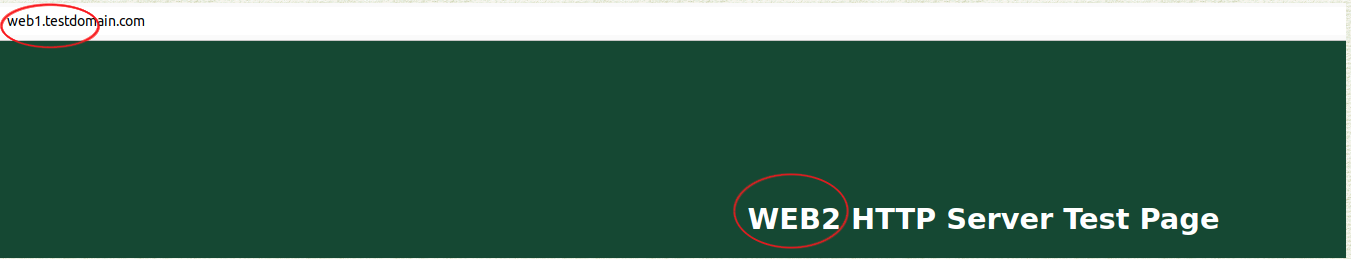
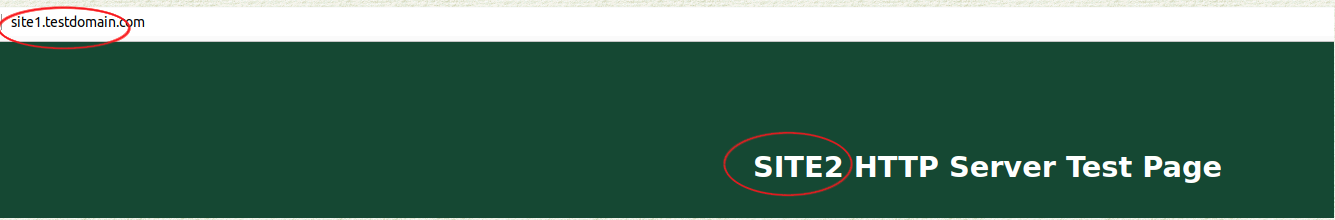
Minor HAProxy document adjustments
* Add an admonition to better highlight the possible differences in
parent Ethernet port names
* Fix spelling mistake
* Removed word that was not needed and confusing
* Fixed a confusion between the LXD container names and the web site
hostnames, by changing the names of the website hostnames so they **do
not** match the LXD container names
* changed screenshot to reflect changes.
* Wording change in hostname set up for the proxy machine
* Added meta for contributor Antoine Le Morvan - thanks for the
suggestions!

Changed region(s): [[0.0, 0.0, 1.0, 1.0]]

diff --git a/docs/guides/proxies/haproxy_apache_lxd.md b/docs/guides/proxies/haproxy_apache_lxd.md
@@ -1,7 +1,7 @@
 ---
 title: HAProxy-Apache-LXD
 author: Steven Spencer
-contributors: Ezequiel Bruni
+contributors: Ezequiel Bruni, Antoine Le Morvan
 ---
 # HAProxy Load Balancing Apache using LXD Containers
 
@@ -66,8 +66,10 @@ Next we need to modify the `macvlan` profile. But before we do, we need to know 
     link/ether a8:5e:45:52:f8:b6 brd ff:ff:ff:ff:ff:ff
     inet 192.168.1.141/24 brd 192.168.1.255 scope global dynamic noprefixroute eno1
 ```
+!!! Note
+    In this case, the interface we are looking for is "eno1" but this could be completely different on your system. Use **your** interface information!
 
-In this case, the interface we are looking for is "eno1" but this could be completely different on your system. Use **your** interface information! Now that we know the LAN interface, we can modify our `macvlan` profile. To do this, at the command line type:
+Now that we know the LAN interface, we can modify our `macvlan` profile. To do this, at the command line type:
 
 `lxc profile edit macvlan`
 
@@ -162,7 +164,7 @@ and then do a search for the `<h1>` tag, which should show this:
 
 Simply change that line to read:
 
-`<h1>WEB1 HTTP Server <strong>Test Page</strong></h1>`
+`<h1>SITE1 HTTP Server <strong>Test Page</strong></h1>`
 
 Now repeat the process for web2. Going to these machines by IP in a browser should now return the correct welcome page for each. There's more to do on the web servers, but let's leave them and go on to the proxy server next.
 
@@ -178,19 +180,19 @@ lxc config device add proxyha http proxy listen=tcp:0.0.0.0:80 connect=tcp:127.0
 lxc config device add proxyha https proxy listen=tcp:0.0.0.0:443 connect=tcp:127.0.0.1:443
 ```
 
-For our testing, we are probably only going to use port 80, or HTTP traffic, but this shows you how you would configure the container to listen on the default web ports for both HTTP and HTTPS. Using this command also ensures that restarting the **proxyha** container will maintain those listening ports.
+For our testing, we are only going to use port 80, or HTTP traffic, but this shows you how you would configure the container to listen on the default web ports for both HTTP and HTTPS. Using this command also ensures that restarting the **proxyha** container will maintain those listening ports.
 
 ## The HAProxy Configuration
 
-We've already installed HAProxy on the container, but we have done nothing with the configuration. Before we do anything, we need to do something to resolve our hosts. Normally we would be using fully-qualified domain names, but in this lab environment, we are just using IPs. To get some names associated with the machines, we are going to add some hosts file records to the **proxyha** container.
+We've already installed HAProxy on the container, but we have done nothing with the configuration. Before we do anything, we need to do something to resolve our hosts. Normally we would be using fully-qualified domain names, but in this lab environment, we are just using IPs. To get some names associated with the machines, we are going to add some host file records to the **proxyha** container.
 
 `lxc exec proxyha vi /etc/hosts`
 
 Add the following records to the bottom of the file:
 
 ```
-192.168.1.150   web1.testdomain.com     web1
-192.168.1.101   web2.testdomain.com     web2
+192.168.1.150   site1.testdomain.com     site1
+192.168.1.101   site2.testdomain.com     site2
 ```
 
 Which should allow the **proxyha** container to resolve those names.
@@ -245,8 +247,8 @@ errorfile 504 /etc/haproxy/errors/504.http
 # bind *:443 ssl crt /etc/letsencrypt/live/example.com/example.com.pem
 # reqadd X-Forwarded-Proto:\ https
 
-# acl host_web1 hdr(host) -i web1.testdomain.com
-# acl host_web2 hdr(host) -i web2.testdomain.com
+# acl host_web1 hdr(host) -i site1.testdomain.com
+# acl host_web2 hdr(host) -i site2.testdomain.com
 
 # use_backend subdomain1 if host_web1
 # use_backend subdomain2 if host_web2
@@ -254,8 +256,8 @@ errorfile 504 /etc/haproxy/errors/504.http
 frontend http_frontend
 bind *:80
 
-acl web_host1 hdr(host) -i web1.testdomain.com
-acl web_host2 hdr(host) -i web2.testdomain.com
+acl web_host1 hdr(host) -i site1.testdomain.com
+acl web_host2 hdr(host) -i site2.testdomain.com
 
 use_backend subdomain1 if web_host1
 use_backend subdomain2 if web_host2
@@ -265,21 +267,21 @@ backend subdomain1
   balance roundrobin
   http-request set-header X-Client-IP %[src]
 # redirect scheme https if !{ ssl_fc }
-     server web1 web1.testdomain.com:80 check
-     server web2 web2.testdomain.com:80 check
+     server site1 site1.testdomain.com:80 check
+     server site2 web2.testdomain.com:80 check
 
 backend subdomain2
 # balance leastconn
   balance roundrobin
   http-request set-header X-Client-IP %[src]
 # redirect scheme https if !{ ssl_fc }
-     server web2 web2.testdomain.com:80 check
-     server web1 web1.testdomain.com:80 check
+     server site2 site2.testdomain.com:80 check
+     server site1 site1.testdomain.com:80 check
 ```
 
 A little explanation of what's going on above. You should see this in your testing, when you get to the testing section of this guide (below):
 
-Both **web1** and **web2** are definded in the "acl" section. Then both **web1** and **web2** are included in each other's "roundrobin" for their respective back ends. What happens when you go to web1.testdomain.com in the test, the URL does not change, but the page inside will switch each time you access the page from the web1 to the web2 test pages. Same goes for web2.testdomain.com.
+Both **site1** and **site2** are defined in the "acl" section. Then both **site1** and **site2** are included in each other's "roundrobin" for their respective back ends. What happens when you go to site1.testdomain.com in the test, the URL does not change, but the page inside will switch each time you access the page from the **site1** to the **site2** test pages. Same goes for site2.testdomain.com.
 
 This is done to show you the switch is occurring, but in reality, your website content will look exactly the same regardless of which server you are hitting. Keep in mind that we are showing how you might want to distribute traffic between multiple hosts. You can also use "leastcon" in the balance line, and instead of switching based on the previous hit, it will load the site with the least number of connections.
 
@@ -403,7 +405,7 @@ If everything starts and runs without issue, we are ready to move on to testing.
 
 ## Testing The Proxy
 
-As with the hosts (`/etc/hosts`) setup that we used so that our **proxyha** container can resolve the web servers, and since in our lab environment we don't have a local DNS server running, we need to set the hostname values on our local machine for both the **web1** and **web2** containers. But, instead of using their IP addresses, we need to use the **proxyha** IP address for both.
+As with the hosts (`/etc/hosts`) setup that we used so that our **proxyha** container can resolve the web servers, and since in our lab environment we don't have a local DNS server running, we need to set the IP values on our local machine for both the site1 and site2 websites, to correspond to our haproxy container.
 
 To do this, we need to modify our `/etc/hosts` file on our local machine. Consider this method of domain resolution a "poor man's DNS."
 
@@ -412,19 +414,20 @@ To do this, we need to modify our `/etc/hosts` file on our local machine. Consid
 Then just add these two lines:
 
 ```
-192.168.1.149   web1.testdomain.com     web1
-192.168.1.149   web2.testdomain.com     web2
+192.168.1.149   site1.testdomain.com     site1
+192.168.1.149   site2.testdomain.com     site2
 ```
 
-If you ping either **web1** or **web2** on your local machine now, you should get a response from **proxyha**:
+If you ping either **site1** or **site2** on your local machine now, you should get a response from **proxyha**:
 
 ```
-PING web1.testdomain.com (192.168.1.149) 56(84) bytes of data.
-64 bytes from web1.testdomain.com (192.168.1.149): icmp_seq=1 ttl=64 time=0.427 ms
-64 bytes from web1.testdomain.com (192.168.1.149): icmp_seq=2 ttl=64 time=0.430 ms
+PING site1.testdomain.com (192.168.1.149) 56(84) bytes of data.
+64 bytes from site1.testdomain.com (192.168.1.149): icmp_seq=1 ttl=64 time=0.427 ms
+64 bytes from site1.testdomain.com (192.168.1.149): icmp_seq=2 ttl=64 time=0.430 ms
 ```
 
-Now open your web browser and type web1.testdomain.com (or web2.testdomain.com) as the URL in the address bar. You should get a response back from one of the two test pages and if you load the page again, you should get the next server's test page. Note that the URL does not change, but the returned page will change alternately between servers.
+Now open your web browser and type site1.testdomain.com (or site2.testdomain.com) as the URL in the address bar. You should get a response back from one of the two test pages and if you load the page again, you should get the next server's test page. Note that the URL does not change, but the returned page will change alternately between servers.
+
 
 ![screenshot of web1 being loaded and showing the second server test message](../images/haproxy_apache_lxd.png)
 
